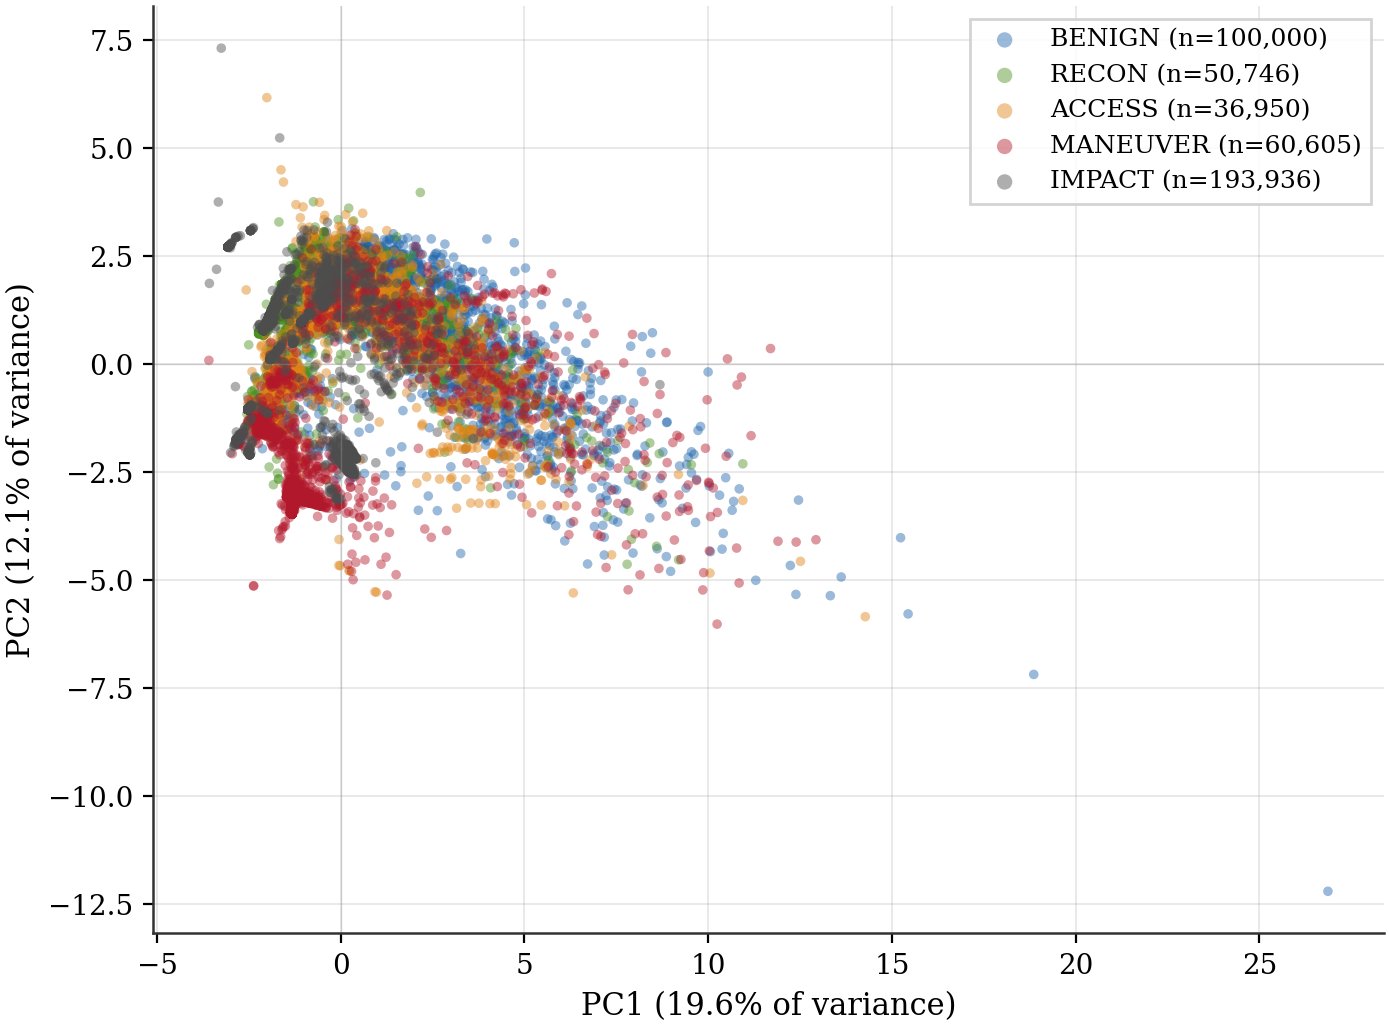
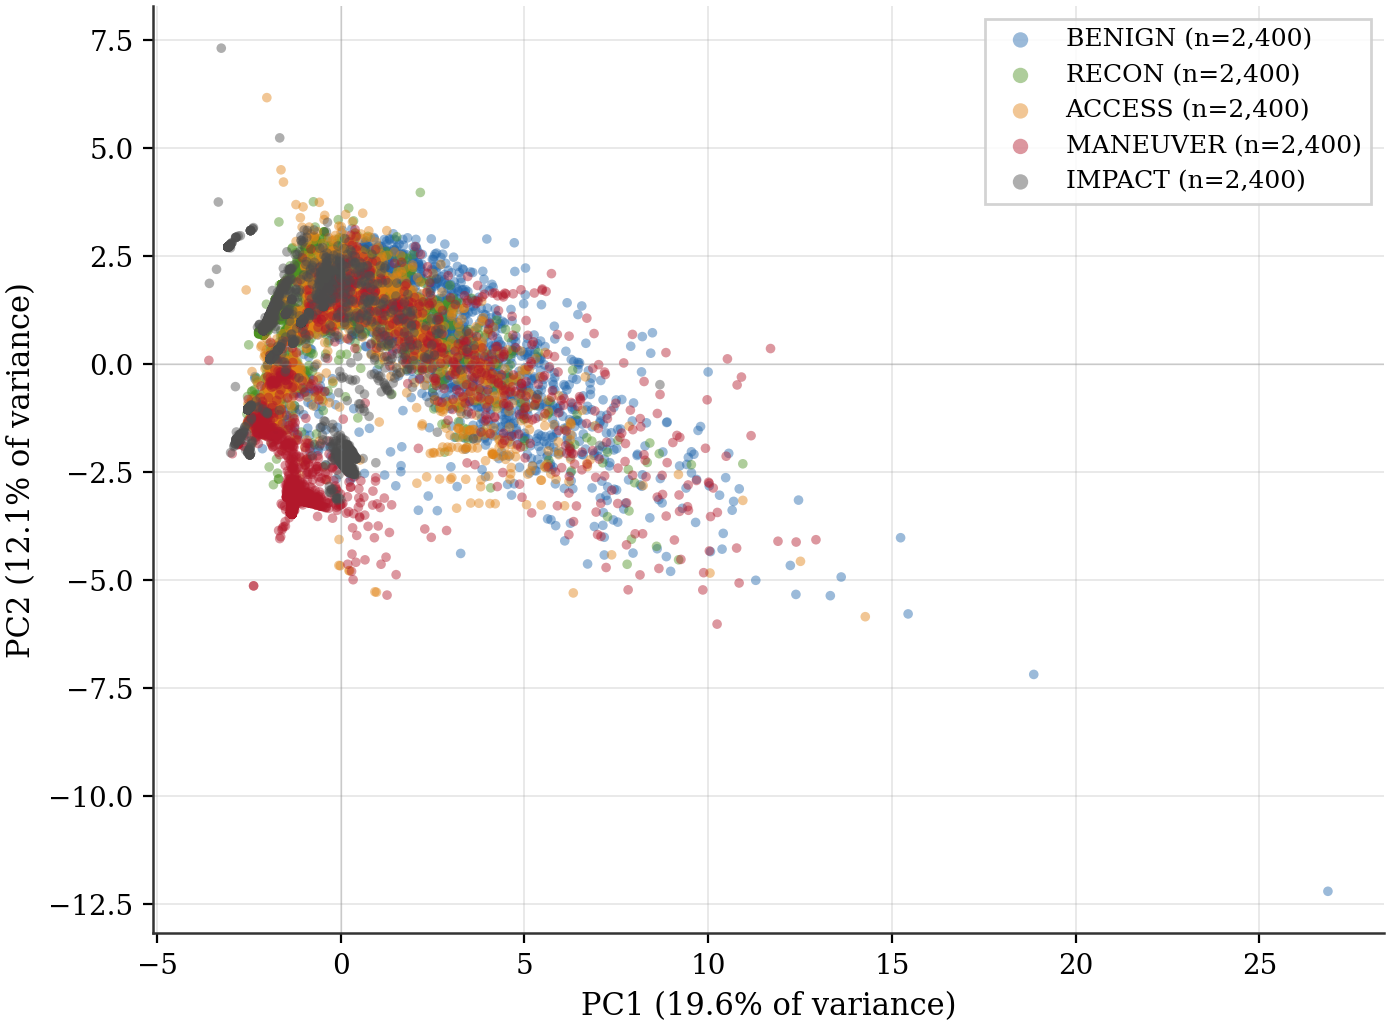
fix(thesis): correct sample labelling on the PCA overlap figure
The Fig. 3.4 caption claimed 12,000 rows subsampled *per stage*, but the
plotter takes 12000 // 5 = 2,400 per stage (12,000 points in total). The
in-figure legend was worse than merely imprecise: it reported each
stage's population count (n=193,936 for IMPACT against n=36,950 for
ACCESS), implying the visual density tracks class prevalence when the
scatter is deliberately equalised at 2,400 points per stage.

That mislabelling undercut the figure's own argument. The figure exists
to show that adjacent kill-chain stages overlap intrinsically in feature
space — the empirical justification for treating aliasing as a genuine
partial-observability stressor. Population-sized labels invited the
reading that the overlap is an artefact of IMPACT dominating the sample.
Both the caption and the legend now report the plotted count, so equal
per-stage representation is visible on the figure itself.

The companion mean-signature heatmap (Fig. 3.5) is unaffected: it
regenerated with byte-identical PNG output and PDF content differing
only in embedded timestamp, so it is left untouched.

Verified: 462 passed; reproducibility_smoke VERDICT PASS (790 OK, 0
FAIL); ruff/black clean; thesis rebuilds to 102 pages with p.26 caption
and legend agreeing at 2,400 per stage.

Changed region(s): [[0.6811, 0.0311, 0.9906, 0.1868]]

diff --git a/tex/methodology.tex b/tex/methodology.tex
@@ -124,7 +124,7 @@ where $x_i \in \mathbb{R}^{29}$ is the $i$-th feature row and $\mathcal{X}_s$ is
 \begin{figure}[!htbp]
     \centering
     \includegraphics[width=0.68\textwidth]{figs/dataset_raw_traffic_a.pdf}
-    \caption[Feature-space overlap across kill-chain stages]{Two-dimensional PCA projection of the 29-dimensional CICIoT2023 feature space, coloured by kill-chain stage (12\,000 rows subsampled per stage). Adjacent stages overlap substantially, which is the empirical reason the aliasing rate $\alpha$ in Eq.~\eqref{eq:aliasing_kernel} is a genuine partial-observability stressor rather than a synthetic perturbation: even with full feature information, neighbouring stages are not linearly separable.}
+    \caption[Feature-space overlap across kill-chain stages]{Two-dimensional PCA projection of the 29-dimensional CICIoT2023 feature space, coloured by kill-chain stage ($2\,400$ rows subsampled per stage, $12\,000$ points in total, so every stage contributes equally and the visual density does not track class prevalence). Adjacent stages overlap substantially, which is the empirical reason the aliasing rate $\alpha$ in Eq.~\eqref{eq:aliasing_kernel} is a genuine partial-observability stressor rather than a synthetic perturbation: even with full feature information, neighbouring stages are not linearly separable.}
     \label{fig:dataset_raw_traffic_a}
 \end{figure}
 

diff --git a/scripts/thesis/plot_dataset_raw_traffic.py b/scripts/thesis/plot_dataset_raw_traffic.py
@@ -130,7 +130,11 @@ def main() -> None:
             s=12,
             alpha=0.45,
             edgecolors="none",
-            label=f"{STAGE_NAMES[s]} (n={int((stages == s).sum()):,})",
+            # Report the *plotted* count, not the population count: the
+            # scatter is deliberately equalised across stages (see the
+            # per-stage subsample above), so a population-sized label would
+            # wrongly imply the visual density tracks class prevalence.
+            label=f"{STAGE_NAMES[s]} (n={int(mask.sum()):,})",
             rasterized=True,
         )
     ax_pca.set_xlabel(f"PC1 ({pca.explained_variance_ratio_[0]:.1%} of variance)")

diff --git a/CHANGELOG.md b/CHANGELOG.md
@@ -25,6 +25,18 @@ research artefact versions recorded in `CITATION.cff`.
   three (train/val/test); the caption now describes what is actually shown.
   The stale row counts in the sibling `stage_distribution.caption.md` were
   corrected alongside it.
+- **PCA feature-overlap figure (Fig. 3.4) mislabelled its sample.** The
+  caption claimed 12,000 rows *per stage*; the plotter subsamples
+  `12000 // 5 = 2,400` per stage (12,000 points in total). The in-figure
+  legend compounded this by reporting each stage's *population* count
+  (`n=193,936` for IMPACT against `n=36,950` for ACCESS), which implied the
+  visual density tracked class prevalence when the scatter is in fact
+  deliberately equalised at 2,400 points per stage. Both the caption and the
+  legend now report the plotted count, so the figure supports rather than
+  undercuts the argument that adjacent-stage overlap is intrinsic to the
+  feature space and not an artefact of class imbalance. The companion
+  mean-signature heatmap (Fig. 3.5) is unaffected; it regenerated with
+  identical content.
 
 ### Changed
 - `scripts/reproducibility_smoke.py` now verifies manifest **`outputs`** in
